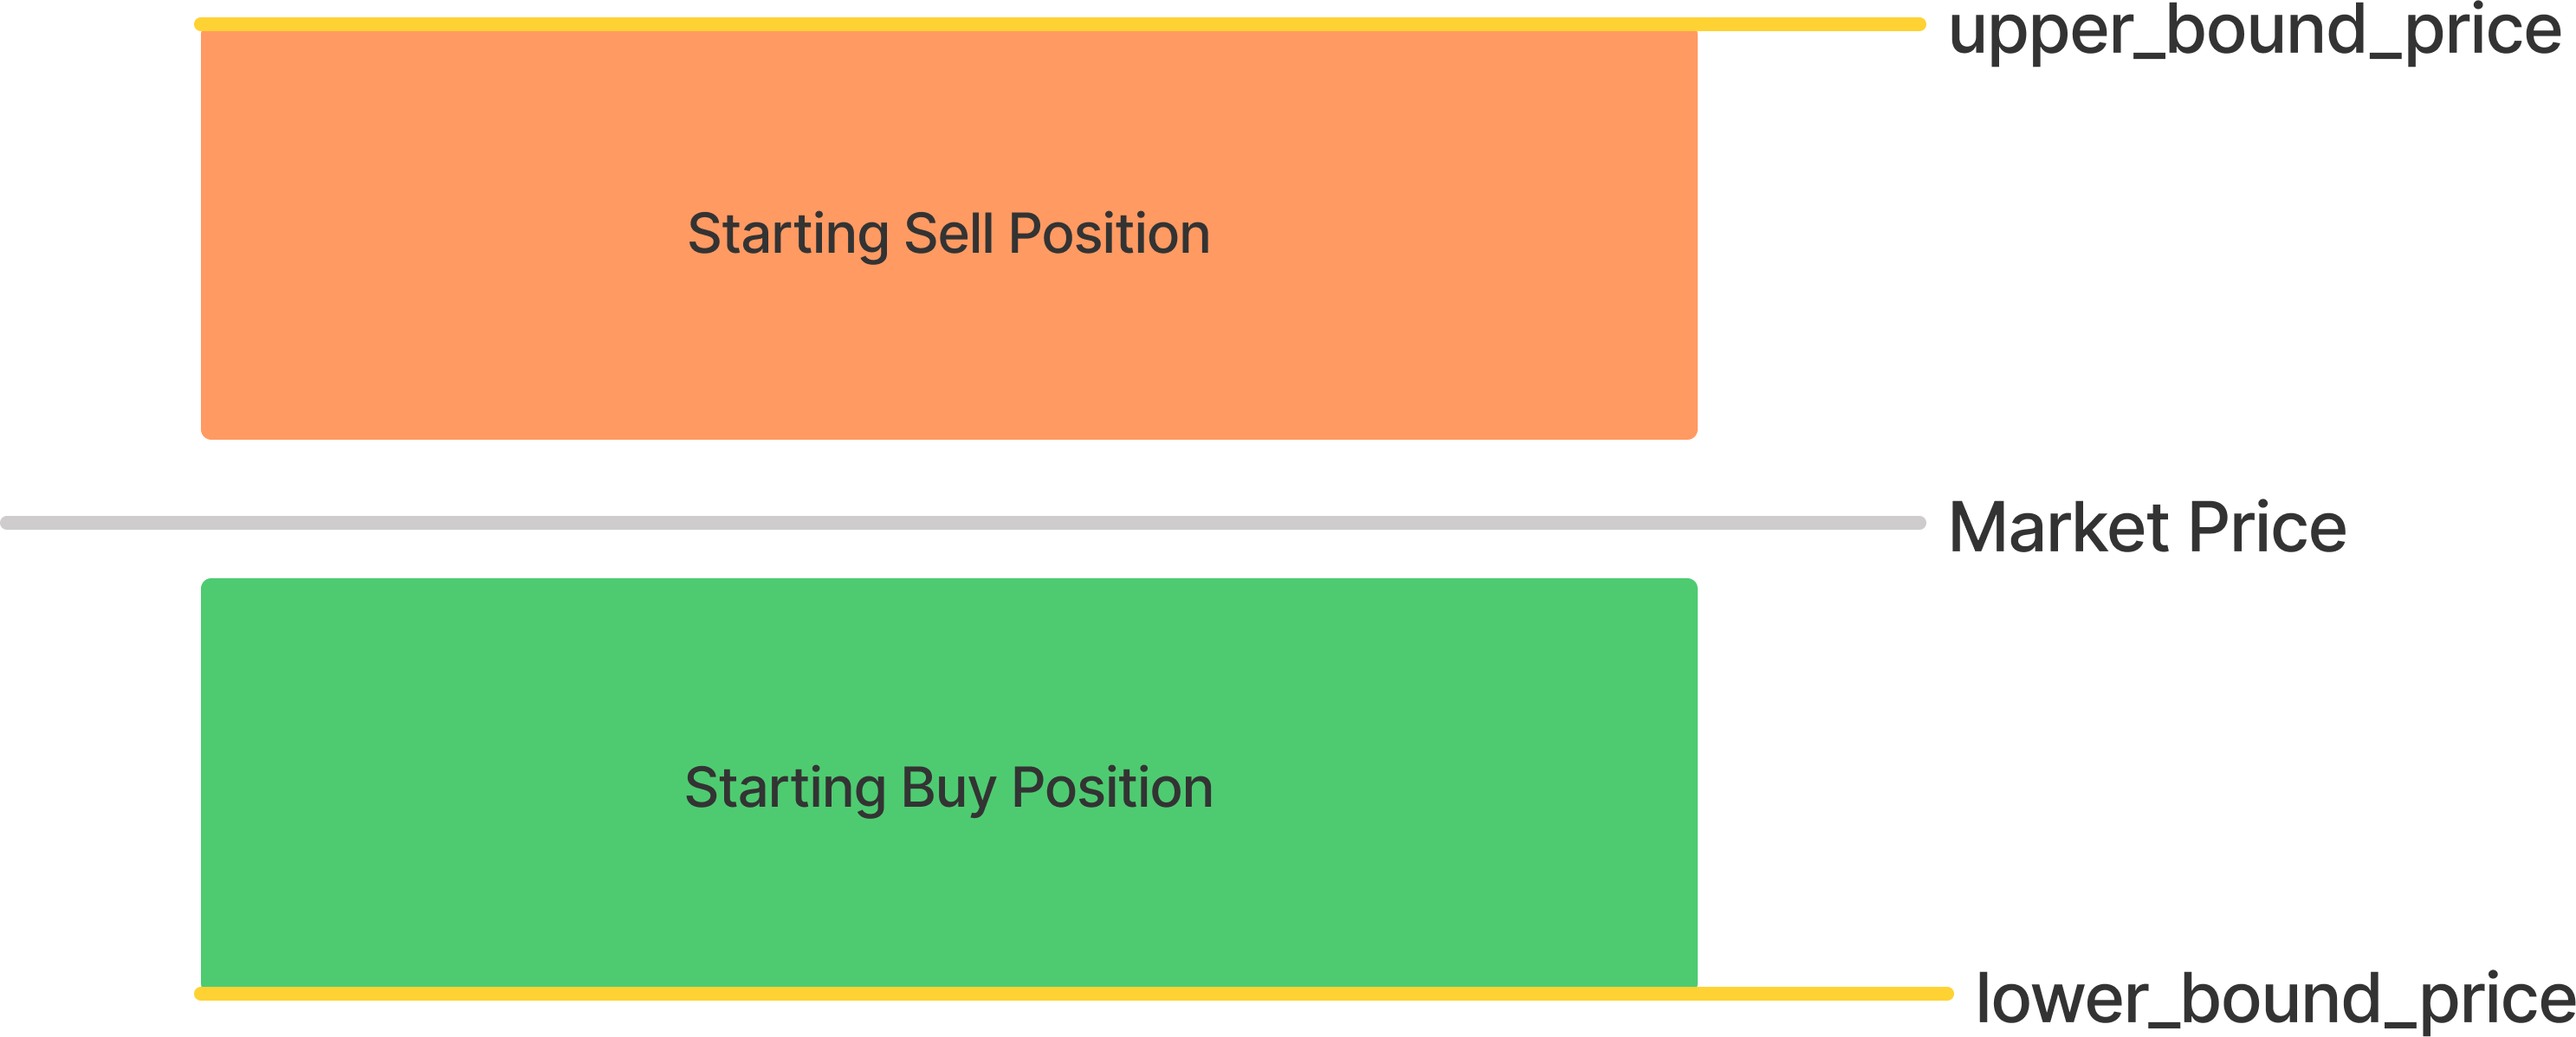
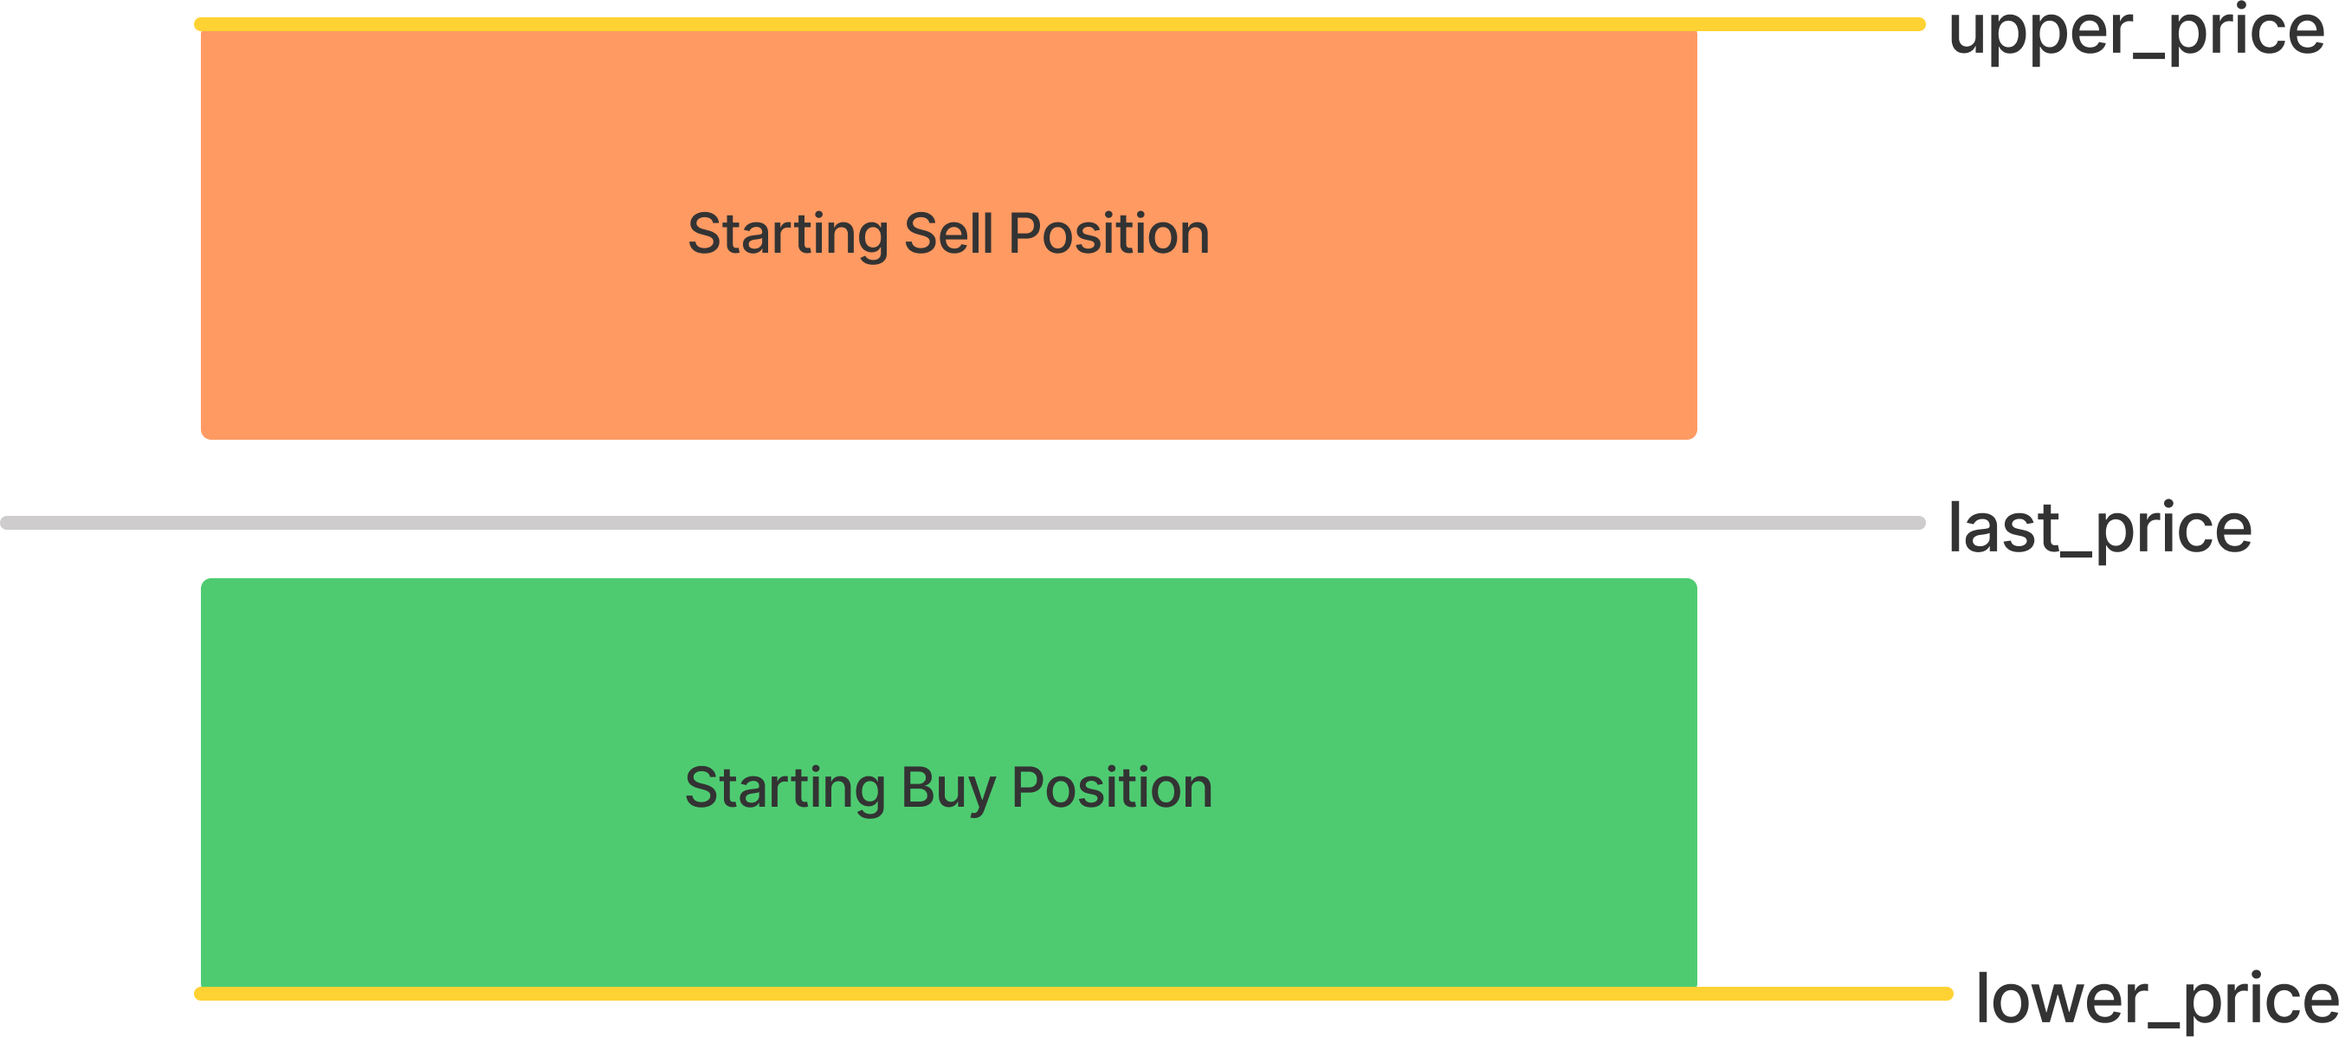
Uniswap v3 updates. Correct pictures added. Fixed strategy typo.

diff --git a/hummingbot/strategy/uniswap_v3_lp/uniswap_v3_lp_config_map.py b/hummingbot/strategy/uniswap_v3_lp/uniswap_v3_lp_config_map.py
@@ -78,14 +78,14 @@ uniswap_v3_lp_config_map = {
     ),
     "buy_position_price_spread": ConfigVar(
         key="buy_position_price_spread",
-        prompt="How wide apart(in percentage) do you want the lower price to be from the upper price for buy position?(Enter 1 to indicate 1%)  >>> ",
+        prompt="How wide apart(in percentage) do you want the lower price to be from the upper price for the BUY position?(Enter 1 to indicate 1%)  >>> ",
         type_str="decimal",
         validator=lambda v: validate_decimal(v, Decimal("0"), inclusive=False),
         default=Decimal("1"),
         prompt_on_new=True),
     "sell_position_price_spread": ConfigVar(
         key="sell_position_price_spread",
-        prompt="How wide apart(in percentage) do you want the lower price to be from the upper price for sell position? (Enter 1 to indicate 1%) >>> ",
+        prompt="How wide apart (in percentage) do you want the upper price to be from the lower price for the SELL position? (Enter 1 to indicate 1%) >>> ",
         type_str="decimal",
         validator=lambda v: validate_decimal(v, Decimal("0"), inclusive=False),
         default=Decimal("1"),

diff --git a/documentation/docs/strategies/uniswap-v3-lp.md b/documentation/docs/strategies/uniswap-v3-lp.md
@@ -38,17 +38,50 @@ This strategy creates and maintains Uniswap positions as the market price change
 
 ## Specification
 
-!!! tip "To Do"
-    Match description and images below to [the strategy file](https://github.com/CoinAlpha/hummingbot/blob/master/hummingbot/strategy/uniswap_v3_lp/uniswap_v3_lp.py). Each tick, the strategy 1) determines if the connector if ready, 2) calculates volatility if it is used, and 3) generates new positions if `total_position_range` has widened based on price movements
+On each tick, the strategy:
+1) Determines if the connector is ready,
+2) Creates the initial *BUY* and *SELL* positions, if there isn't any 
+3) Creates a new liquidity position if the pool price moved above the `upper_bound` OR below the `lower_bound` values.
 
 **Prompts:**
 
-- Enter the trading pair and fee tier of the pool
-- Top price bound (in %) relative to market price (`sell_position_price_spread`)
-- Lower price bound (in %) relative to market price (`buy_position_price_spread`)
-- Base token amount to add (`base_token_amount`)
-- Quote token amount to add (`quote_token_amount`)
-- Bot will calculate `top_bound_price` and `lower_bound_price` based on the current `market_price` and the spreads entered by the user
+`Enter the pair you would like to provide liquidity to`: 
+> Defines the Liquidity pool asset pair (`market`)
+> 
+> **Note:** The order or the assets matters to properly identify the correct pool. Make sure to check https://info.uniswap.org/#/ for the correct asset order
+
+`On wich fee tier do you want to provide liquidity on? (LOW/MEDIUM/HIGH)`
+> Defines the trading fee of the pool you want to provide liquidity (`fee_tier`). Fee tiers are:
+>  
+> LOW = 0.05%
+> MEDIUM = 0.30%
+> HIGH = 1.00%
+> 
+> **Note:** Each fee tier is a different uniswap pool 
+
+`How wide apart (in percentage) do you want the lower price to be from the upper price for the BUY position?`
+> Defines `buy_position_price_spread`
+> 
+> The value is used to calculate the lower price bound:
+> `lower_price = (1 - buy_spread) * last_price`
+
+`How wide apart (in percentage) do you want the upper price to be from the lower price for the SELL position?`
+> Defines `sell_position_price_spread`
+> 
+> The value is used to calculate the upper price bound:
+> `upper_price = (1 + sell_spread) * last_price`
+
+`How much of the base token do you want to use?`
+> Defines `base_token_amount`
+> 
+> This is the amount of tokens that will be added to the SELL positions
+
+`How much of the quote token do you want to use?`
+> Defines `quote_token_amount`
+> 
+> This is the amount of tokens that will be added to the BUY positions
+
+## Strategy Logic
 
 **Starting the strategy**
 
@@ -56,40 +89,48 @@ This strategy creates and maintains Uniswap positions as the market price change
 - The bot will look for information about the pool, and if it is a valid pool
   - If the pool doesn't exist, warn the user and stop the strategy
 - If the pool is valid, the bot will create two starting positions:
-  1. The sell position with:
+  1. The SELL position with:
       - Amount of tokens added to the position = `base_token_amount`
-      - Top price bound = `top_bound_price`
-      - Lower price bound = current market price
+      - Top price bound = `upper_price`
+      - Lower price bound = `last_price`
   2. The buy position with:
       - Amount of tokens added to the position = `quote_token_amount`
-      - Top price bound = current market price
-      - Lower price bound = `lower_bound_price`
+      - Top price bound = `last_price`
+      - Lower price bound = `lower_price`
 
 ![image.png](/assets/img/uniswap-v3-1.png)
 
 **As the strategy is running**
 
-The bot will monitor the current price of the pool, with two possible conditions to trigger a new position creation:
+Every tick, the bot will monitor the current price of the pool (`last_price`), with two possible conditions to trigger a new position creation:
 
-1. Price goes above `top_bound_price`
-```python
-if market_price > top_price_bound
-  new_position_top_price = market_price + (market_price * top_bound_spread)
-  new_position_lower_price = market_price
-  new_position_size = base_token_amount
-  create_new_position(new_position_top_price, new_position_lower_price, new_position_size)
-  top_bound_price = new_position_top_price // The new upper bound becomes the upper bound of the new position
-```
-![image.png](/assets/img/uniswap-v3-1.png)
+1. Price goes above `upper_price`
 
+ - A new SELL liquidity position will be created, using the following values:
 
-2. Price goes below `lower_bound_price`
-```python
-if market_price < lower_bound_price
-  new_position_top_price = market_price
-  new_position_lower_price = market_price - (market_price * lower_bound_spread)
-  new_position_size = base_token_amount
-  create_new_position(new_position_top_price, new_position_lower_price, new_position_size)
-  lower_bound_price = new_position_lower_price // The new lower bound becomes the upper bound of the new position
-```
-![image.png](/assets/img/uniswap-v3-1.png)
+    - Amount of tokens of the new position = `base_token_amount`
+    - New position upper price = `(1 + sell_spread) * last_price`
+    - New position lower price = `last_price`
+ - The `upper_price` value will be redefined 
+    - `upper_price = (1 + sell_spread) * last_price`
+ - The `lower_price` value won't be changed
+
+![image.png](/assets/img/uniswap-v3-2.png)
+
+2. Price goes below `lower_price`
+
+ - A new BUY liquidity position will be created, using the following values:
+
+    - Amount of tokens of the new position = `quote_token_amount`
+    - New position upper price = `last_price`
+    - New position lower price = `(1 - buy_spread) * last_price`
+ - The `lower_price` value will be redefined 
+    - `lower_price = (1 - buy_spread) * last_price`
+ - The `upper_price` value won't be changed
+
+![image.png](/assets/img/uniswap-v3-3.png)
+
+**Important Notes**
+
+- The strategy WILL NOT remove existing liquidity positions. The user must do it manually through the Uniswap front-end (https://app.uniswap.org/#/pool)
+- The `status` command will show what is the current profit of each position, using the `quote` asset as reference
